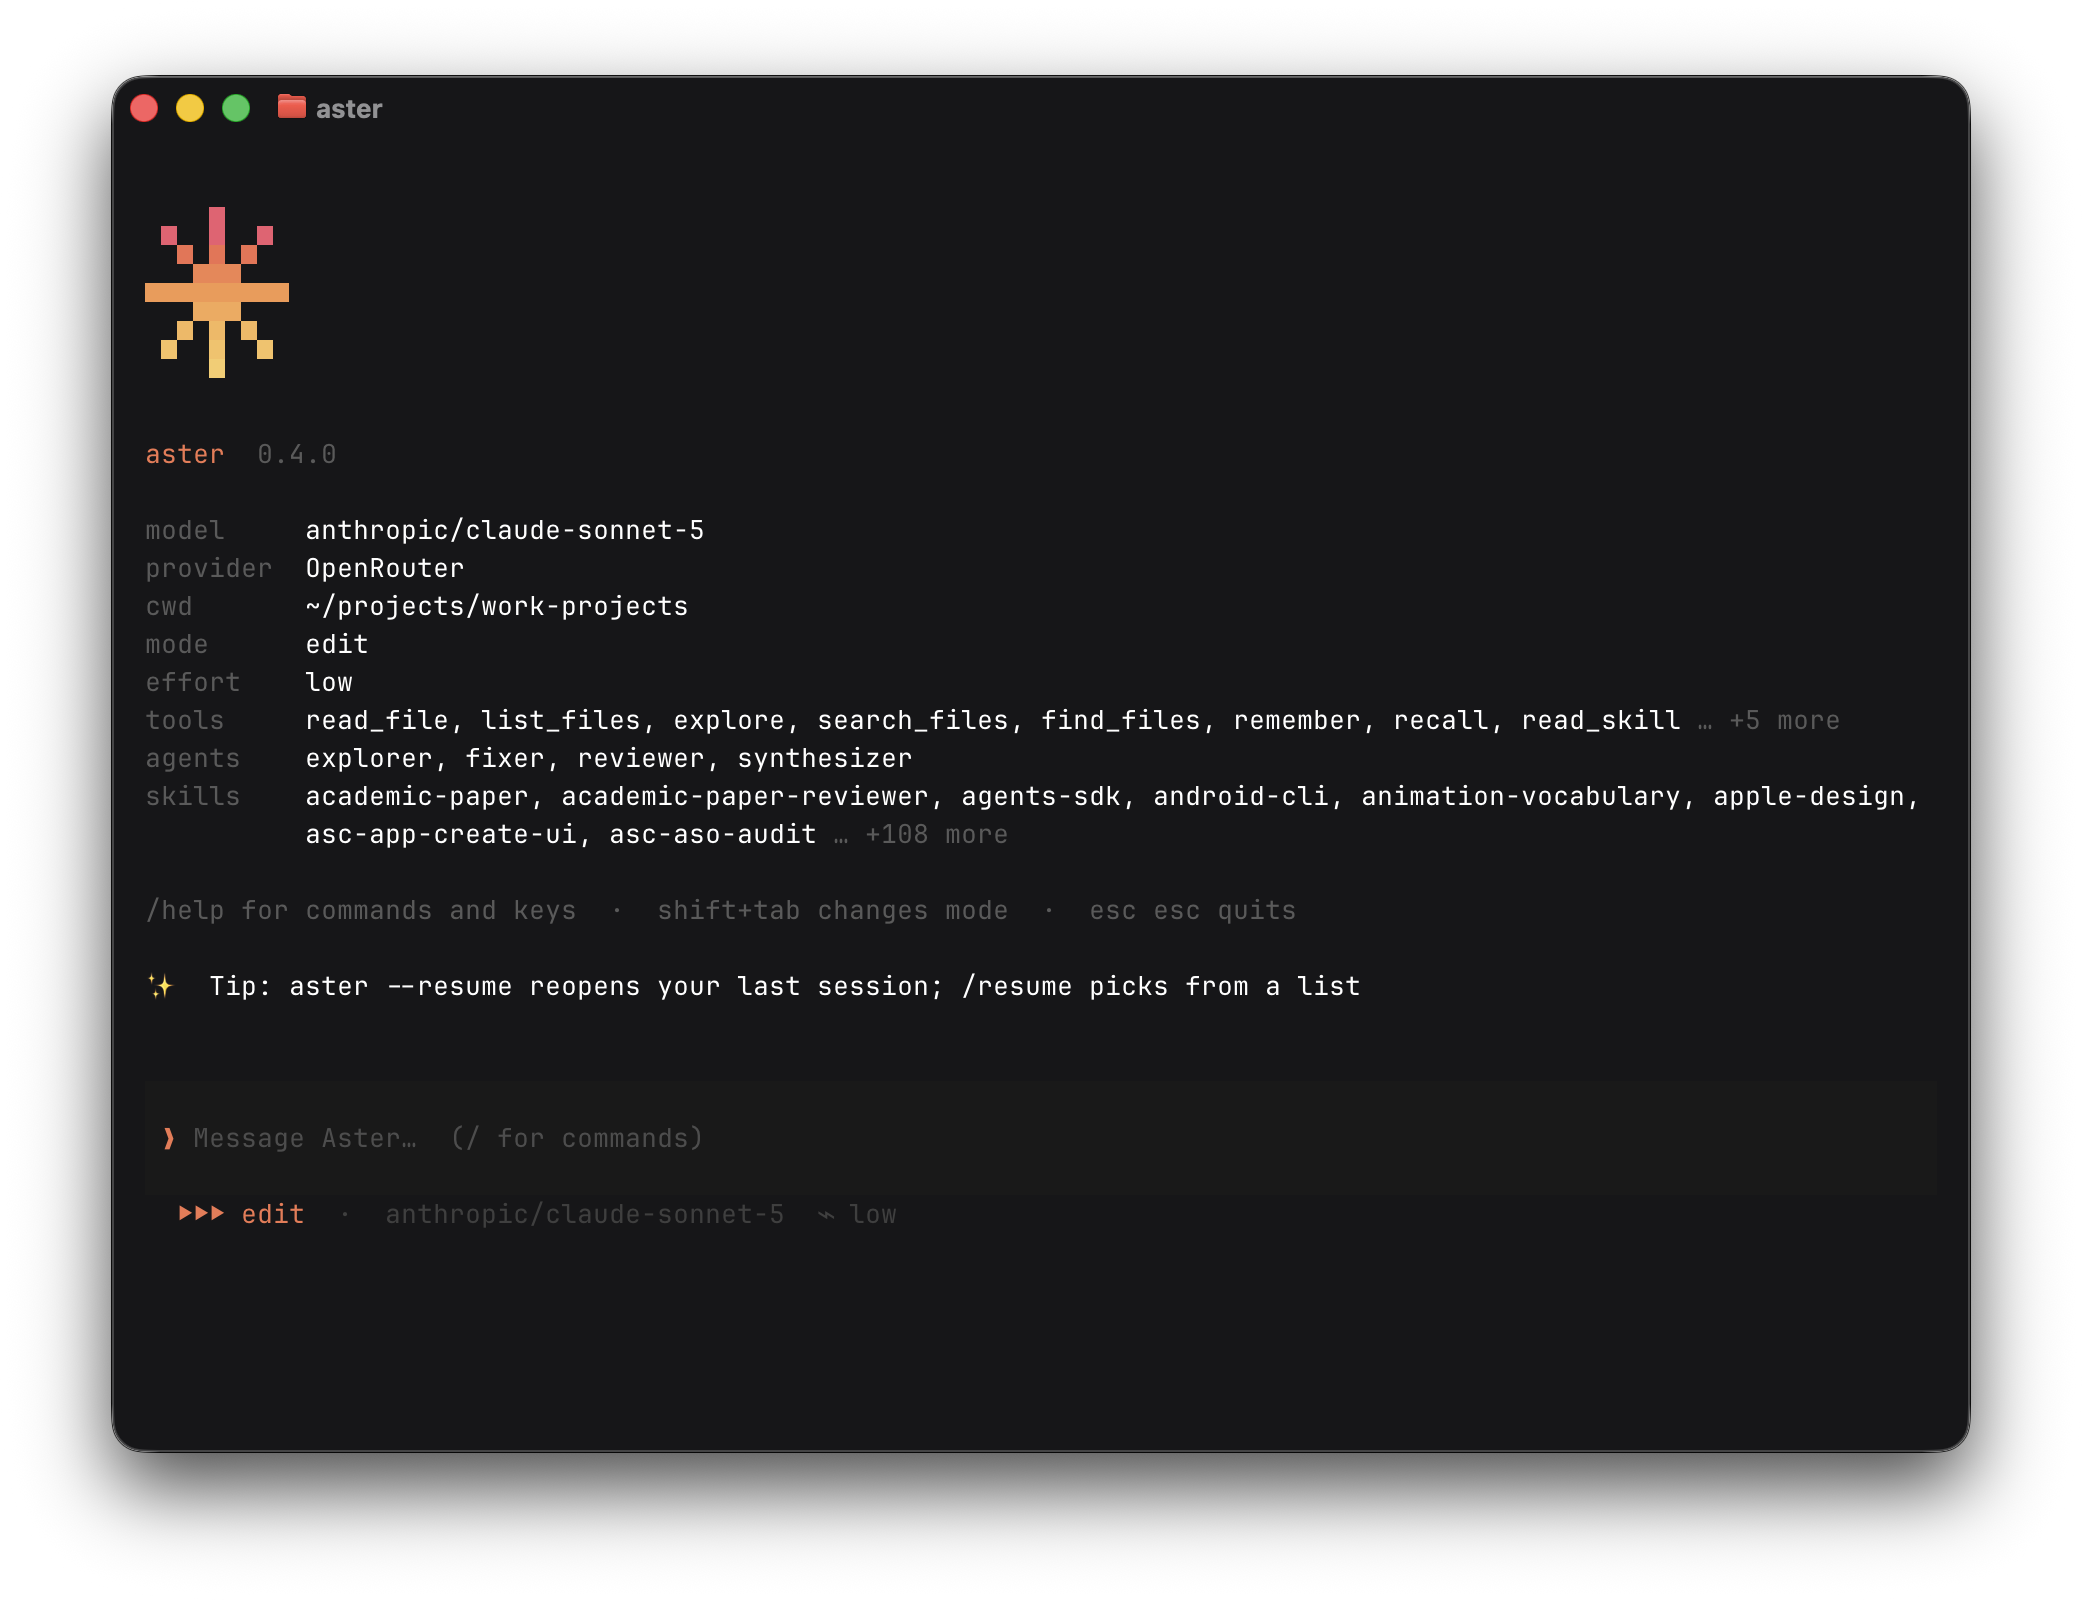
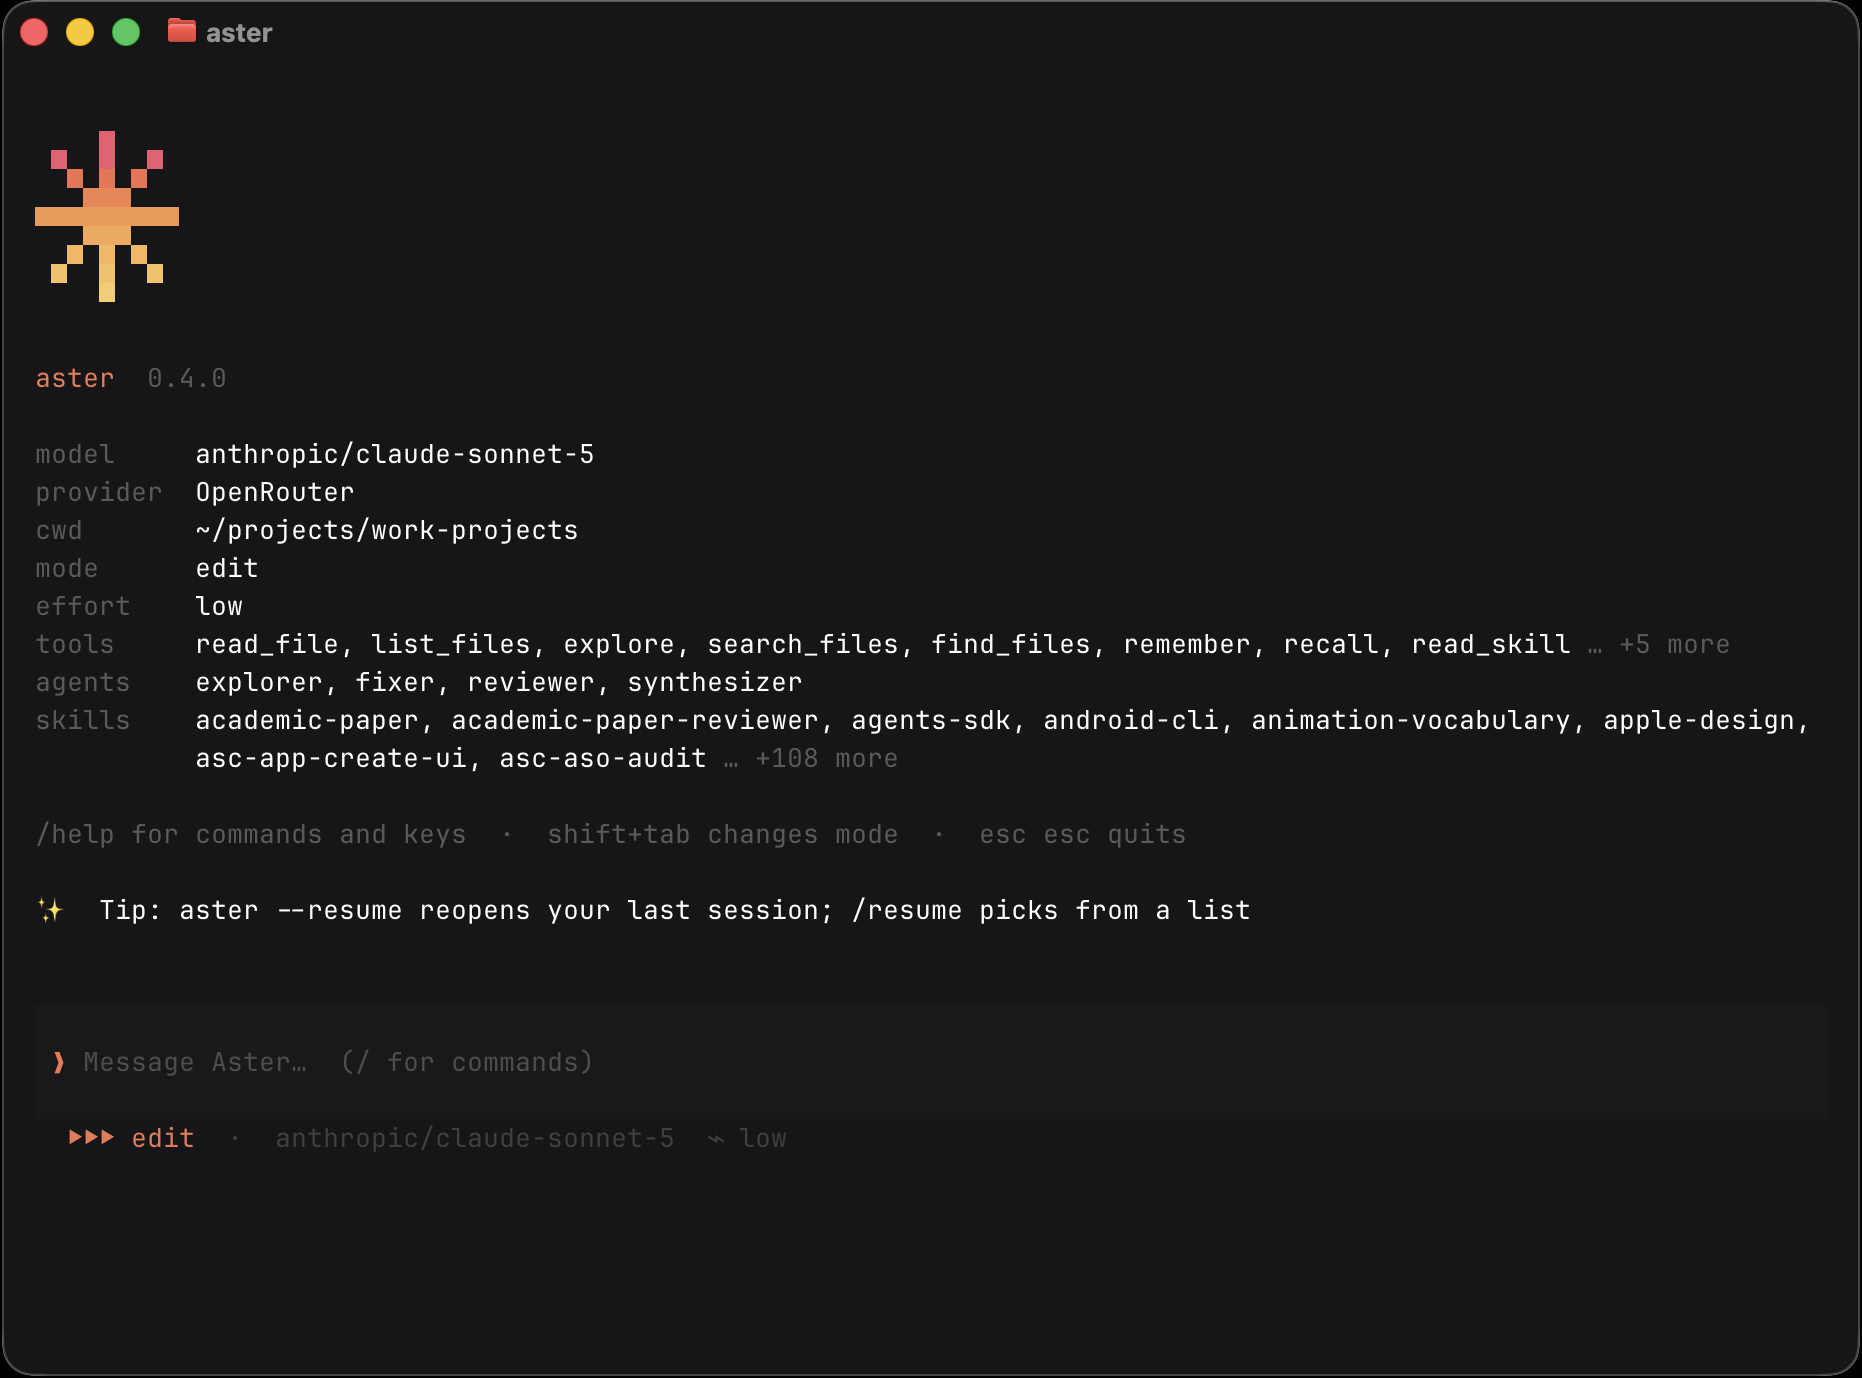
fix(docs): crop hero to terminal window, move it up, move theme swatches to chat

diff --git a/chat.md b/chat.md
@@ -76,6 +76,37 @@ choice to `ui.theme` in aster.yaml. Built-ins include `dark`, `light`,
 `~/.aster/themes/` or `.aster/themes/`; they appear in the picker on the next
 launch.
 
+Sixteen built-in palettes, switchable live with `/theme` in the session. Each
+swatch below uses the exact background and accent colors from the theme
+itself.
+
+<table style="width: 100%; border-collapse: separate; border-spacing: 10px; margin-top: 1rem;">
+  <tr>
+    <td style="background: #191919; border-radius: 10px; padding: 14px 16px; width: 25%;"><span style="color: #f2764f; font-family: monospace;">❯</span> <span style="color: #ffffff; font-family: monospace;">default</span><br/><span style="color: #8a8a85; font-size: 12px;">the default warm dark palette</span></td>
+    <td style="background: #0b1929; border-radius: 10px; padding: 14px 16px; width: 25%;"><span style="color: #4fd6e0; font-family: monospace;">❯</span> <span style="color: #cfe3f5; font-family: monospace;">aster-ocean</span><br/><span style="color: #8ba3b9; font-size: 12px;">the signature aster deep-teal dark</span></td>
+    <td style="background: #1a1410; border-radius: 10px; padding: 14px 16px; width: 25%;"><span style="color: #ff7b39; font-family: monospace;">❯</span> <span style="color: #f2e5d5; font-family: monospace;">aster-ember</span><br/><span style="color: #b39b7e; font-size: 12px;">warm charcoal, burning orange</span></td>
+    <td style="background: #17121f; border-radius: 10px; padding: 14px 16px; width: 25%;"><span style="color: #c678dd; font-family: monospace;">❯</span> <span style="color: #e8ddf5; font-family: monospace;">aster-orchid</span><br/><span style="color: #a896c4; font-size: 12px;">violet dark, magenta accent</span></td>
+  </tr>
+  <tr>
+    <td style="background: #1e1f29; border-radius: 10px; padding: 14px 16px;"><span style="color: #ff79c6; font-family: monospace;">❯</span> <span style="color: #f8f8f2; font-family: monospace;">dracula</span><br/><span style="color: #9c95a8; font-size: 12px;">purple and pink on dark slate</span></td>
+    <td style="background: #1e1e2e; border-radius: 10px; padding: 14px 16px;"><span style="color: #f5c2e7; font-family: monospace;">❯</span> <span style="color: #c6d0e5; font-family: monospace;">catppuccin</span><br/><span style="color: #9aa5be; font-size: 12px;">warm pastels on mauve</span></td>
+    <td style="background: #2e3440; border-radius: 10px; padding: 14px 16px;"><span style="color: #88c0d0; font-family: monospace;">❯</span> <span style="color: #e5e9f0; font-family: monospace;">nord</span><br/><span style="color: #9ca3af; font-size: 12px;">cool blues on slate</span></td>
+    <td style="background: #1d2021; border-radius: 10px; padding: 14px 16px;"><span style="color: #fe8019; font-family: monospace;">❯</span> <span style="color: #ebdbb2; font-family: monospace;">gruvbox</span><br/><span style="color: #a89968; font-size: 12px;">earthy amber and orange</span></td>
+  </tr>
+  <tr>
+    <td style="background: #002b36; border-radius: 10px; padding: 14px 16px;"><span style="color: #268bd2; font-family: monospace;">❯</span> <span style="color: #93a1a1; font-family: monospace;">solarized</span><br/><span style="color: #657b83; font-size: 12px;">muted teal and blue</span></td>
+    <td style="background: #1a1a2e; border-radius: 10px; padding: 14px 16px;"><span style="color: #ff7edb; font-family: monospace;">❯</span> <span style="color: #f6f6f6; font-family: monospace;">synthwave</span><br/><span style="color: #a3a3c2; font-size: 12px;">neon pink to cyan</span></td>
+    <td style="background: #222b3a; border-radius: 10px; padding: 14px 16px;"><span style="color: #58a6ff; font-family: monospace;">❯</span> <span style="color: #c9d1d9; font-family: monospace;">github-dark</span><br/><span style="color: #8b949e; font-size: 12px;">GitHub's calm blue dark palette</span></td>
+    <td style="background: #2d2a2e; border-radius: 10px; padding: 14px 16px;"><span style="color: #fc9817; font-family: monospace;">❯</span> <span style="color: #fcfcfa; font-family: monospace;">monokai</span><br/><span style="color: #928374; font-size: 12px;">classic Sublime/Monokai Pro palette</span></td>
+  </tr>
+  <tr>
+    <td style="background: #282c34; border-radius: 10px; padding: 14px 16px;"><span style="color: #61afef; font-family: monospace;">❯</span> <span style="color: #abb2bf; font-family: monospace;">one-dark</span><br/><span style="color: #828997; font-size: 12px;">Atom One Dark blues and mint</span></td>
+    <td style="background: #0f1422; border-radius: 10px; padding: 14px 16px;"><span style="color: #7dc4ff; font-family: monospace;">❯</span> <span style="color: #ffffff; font-family: monospace;">midnight</span><br/><span style="color: #828fa8; font-size: 12px;">deep blue dark palette</span></td>
+    <td style="background: #171c16; border-radius: 10px; padding: 14px 16px;"><span style="color: #a7c080; font-family: monospace;">❯</span> <span style="color: #ffffff; font-family: monospace;">forest</span><br/><span style="color: #9aa08a; font-size: 12px;">muted green dark palette</span></td>
+    <td style="background: #f5f2ee; border-radius: 10px; padding: 14px 16px;"><span style="color: #c25a30; font-family: monospace;">❯</span> <span style="color: #1a1a1a; font-family: monospace;">light</span><br/><span style="color: #6a6a66; font-size: 12px;">for bright terminals</span></td>
+  </tr>
+</table>
+
 ## Streaming for tools
 
 `--stream` emits one JSON object per line. The desktop app and the VS Code

diff --git a/index.md b/index.md
@@ -8,6 +8,8 @@ questions about it, edits files, runs commands, and reviews your changes. It
 works with any OpenAI-compatible provider: OpenRouter, OpenAI, Groq, Anthropic,
 Z.ai, or a model running on your own machine.
 
+<img src="/terminal.png" alt="Aster running in the terminal, showing the session header and prompt" />
+
 One binary does all of it:
 
 ```sh
@@ -18,10 +20,6 @@ That opens a chat bound to the repository you are in. Ask where the retry logic
 lives, ask for a small change and a test, or hand it a diff to review. Everything
 Aster does is visible: edits are gated by a permission mode you control, commands
 run in a sandbox, and every session is saved under `~/.aster`.
-
-<Frame>
-  <img src="/terminal.png" alt="Aster running in the terminal, showing the session header and prompt" />
-</Frame>
 
 ## For AI agents
 
